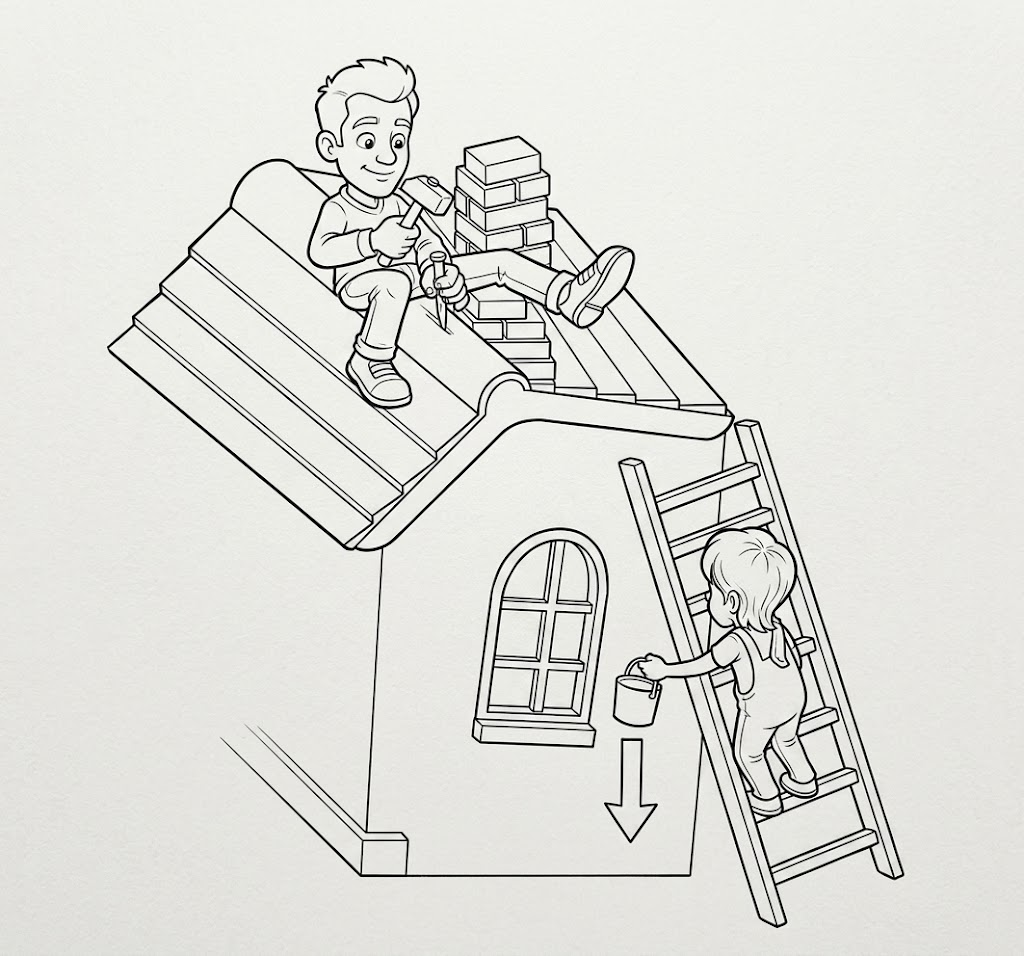
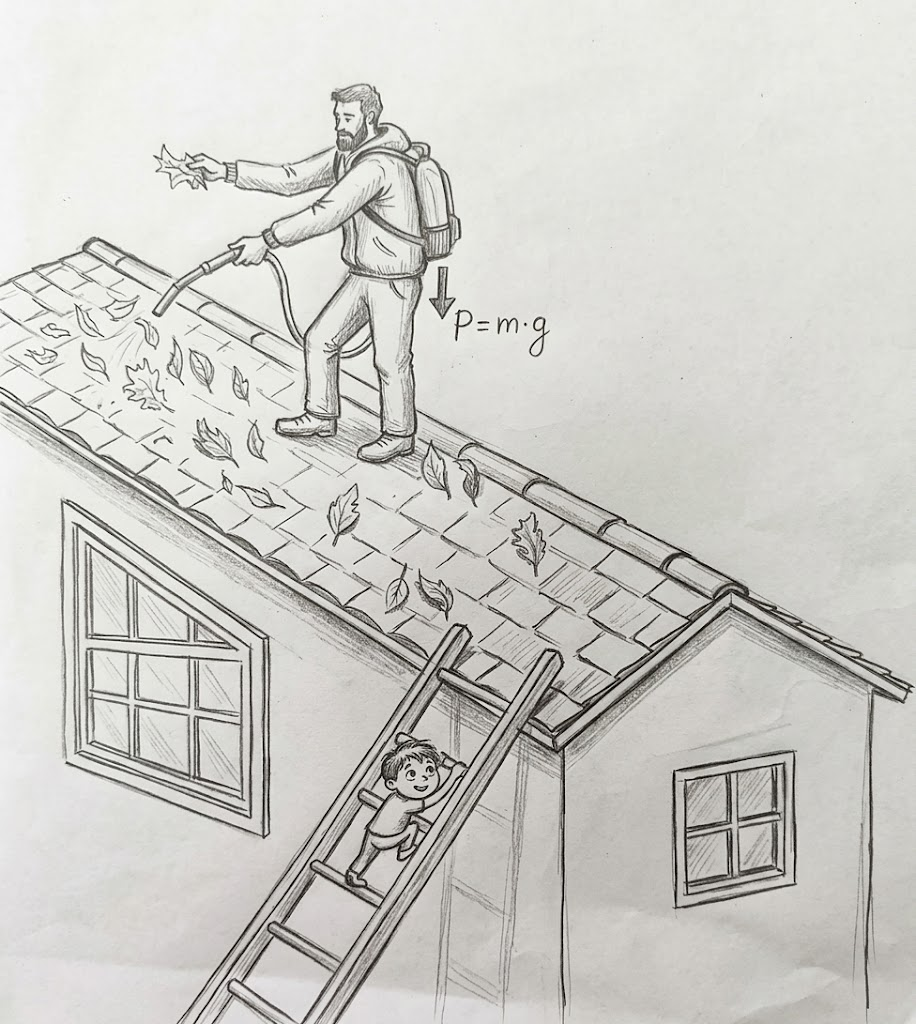
Modificación de ejercicio 6-5 en cuanto a imagen y se añade texto explicativo

diff --git a/src/assets/exercisesData.js b/src/assets/exercisesData.js
@@ -4921,6 +4921,50 @@ proceso?
       <p>
 
 
+El cálculo del trabajo mecánico se fundamenta en la definición vectorial $W = F \\cdot h \\cdot \\cos(\\theta)$, donde la función coseno y la elección de los ángulos responden a la relación geométrica entre el vector fuerza y el vector desplazamiento.
+
+¿Por qué se utiliza la función trigonométrica Coseno?
+
+Componente paralela de la fuerza: El trabajo no depende del módulo total de la fuerza aplicada, sino únicamente de la porción de esa fuerza que actúa en la misma línea del movimiento. En trigonometría, al proyectar un vector fuerza $\\vec{F}$ sobre la dirección del desplazamiento $\\vec{h}$, la componente paralela es $F_\\parallel = F \\cos(\\theta)$.
+
+
+Proporción de energía transferida: La función coseno actúa como un ponderador escalar entre $-1$ y $1$:
+ Si la fuerza es perpendicular al movimiento ($\\theta = 90^\\circ$), $\\cos(90^\\circ) = 0$ y el trabajo es nulo ($W = 0$) porque no contribuye a desplazar el cuerpo.
+
+
+ Si la fuerza va en el mismo sentido ($\\theta = 0^\\circ$), $\\cos(0^\\circ) = 1$ y realiza el trabajo positivo máximo.
+
+
+ Si la fuerza se opone al sentido ($\\theta = 180^\\circ$), $\\cos(180^\\circ) = -1$ y realiza trabajo negativo.
+
+
+
+
+
+Elección de los Ángulos en el Ejercicio
+
+1. Fuerza de soporte ($W_s$)
+
+Orientación de los vectores: Para sostener un objeto durante su descenso, la fuerza de soporte $\vec{F}_s$ ejerce un tirón o empuje hacia arriba. Sin embargo, el desplazamiento $\vec{h}$ ocurre hacia abajo.
+
+
+Justificación del ángulo ($180^\\circ$): Dos vectores verticales que apuntan en sentidos opuestos forman entre sí un ángulo llano de $180^\\circ$.
+
+
+Significado físico: Al sustituir $\cos(180^\circ) = -1$, el resultado es $W_s = -mgh$. Un trabajo negativo significa que la fuerza de soporte frena el objeto o retira energía del sistema para evitar que caiga en caída libre.
+
+
+
+2. Fuerza gravitacional ($W_g$)
+
+Orientación de los vectores: La atracción de la gravedad (el peso $\\vec{F}_g = m\\vec{g}$) actúa apuntando verticalmente hacia abajo. El desplazamiento $\\vec{h}$ también ocurre hacia abajo.
+
+
+Justificación del ángulo ($0^\\circ$): Como ambos vectores tienen la misma dirección y el mismo sentido, se encuentran perfectamente alineados en paralelo, formando un ángulo de $0^\\circ$.
+
+
+Significado físico: Al sustituir $\\cos(0^\\circ) = 1$, el resultado es $W_g = mgh$. Un trabajo positivo indica que la gravedad favorece el desplazamiento y transfiere energía hacia el objeto al hacerlo bajar.
+
 
 </p>
 $$ W_s = F_s h\\cos(180^\\circ) = (mg)(h)(-1) = -mgh $$
